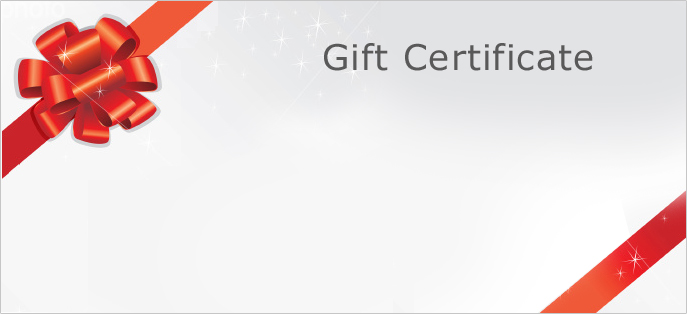
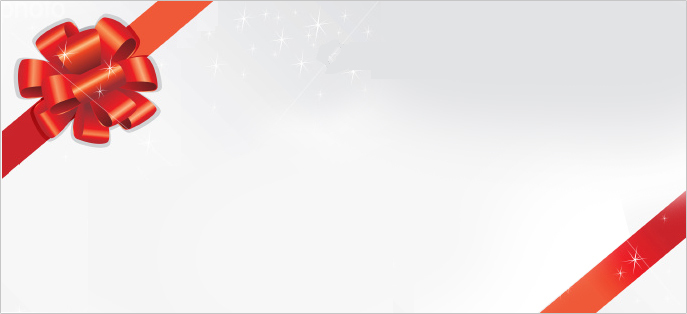
Added switching templates

Changed region(s): [[0.4585, 0.1433, 0.8865, 0.2293]]

diff --git a/app/views/main.html b/app/views/main.html
@@ -22,6 +22,13 @@
   </div>
   <div class="col-sm-6">
     <div class="form-group">
+      <label for="">Template</label>
+      <select ng-change="formChanged"
+        class="form-control"
+        ng-model="template" ng-options="template.name for template in templates">
+      </select>
+    </div>
+    <div class="form-group">
       <label for="">Amount</label>
       <input ng-change="formChanged"
         ng-model="cert.amount" class="form-control" type="text">
@@ -34,7 +41,7 @@
   </div>
 </form>
 
-<div class="cert-preview basic">
+<div class="cert-preview" ng-class="template.class">
   <div class="cert-title">{{cert.title}}</div>
   <div class="cert-details">
     <div class="cert-to">
